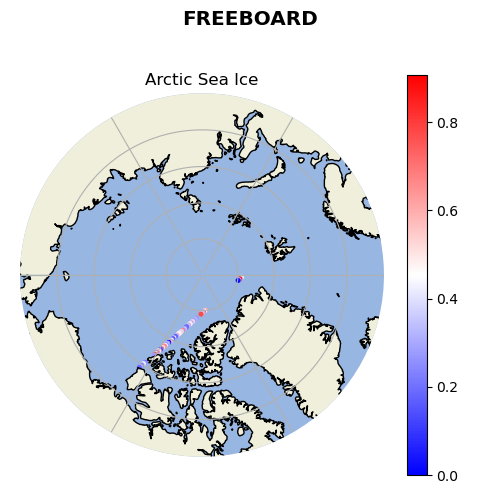
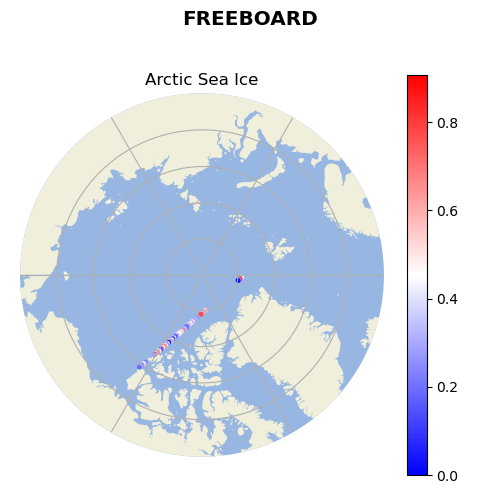
North pole track works for plotting_track_animation

diff --git a/practice_plotting/plotting_track_animation.py b/practice_plotting/plotting_track_animation.py
@@ -105,9 +105,51 @@ def plotNorthAndSouthTrackAnimation():
     print("Saved .gif file")
 
 
+def plotNorthPoleTrackAnimation():
+    
+    # Load the data to plot
+    output              = loadData(runDir, outputFileName)
+    latCell, lonCell    = getLatLon(output)
+    timeCell            = getTime(output, len(lonCell))
+
+    variableToPlot1Day  = reduceToOneDay(output, keyVariableToPlot=VARIABLETOPLOT)
+
+    # Downsample the data
+    factor = 100  # Downsampling factor
+    latCell, lonCell, timeCell, variableToPlot1Day = downsampleData(latCell, lonCell, timeCell, variableToPlot1Day, factor)
+
+    # Plot the north pole
+    fig, northMap = generateNorthPoleAxes()
+    scatterNorth = generateNorthPoleMap(fig, northMap, latCell, lonCell, variableToPlot1Day, mapImageFileName, 1,1,1,1,1,5.0)
+    
+    # Initialize the text box
+    textBox = northMap.text(0.05, 0.95, "", transform=northMap.transAxes, fontsize=14, verticalalignment='top', bbox=boxStyling)
+
+    def update(frame):
+        # Update the data stored on each artist for each frame
+        scatterNorth.set_offsets(np.c_[lonCell[:frame], latCell[:frame]])
+
+        # Update the text box with the current time
+        textBoxString = "Time: " + str(convertTime(timeCell[frame]))
+        textBox.set_text(textBoxString)
+
+        return scatterNorth, textBox
+
+    print("Generated .png file")
+
+    startTime = time.time()
+    ani = animation.FuncAnimation(fig=fig, func=update, frames=latCell.size, interval=1)
+    ani.save(filename=animationFileName, writer="pillow")
+    endTime = time.time()
+    print("It took this much time: ", endTime-startTime)
+
+    # =======================
+    print("Saved .gif file")
+
+
 def main():
-    plotNorthAndSouthTrackAnimation()
-    # plotNorthPoleTrackAnimation()
+    # plotNorthAndSouthTrackAnimation()
+    plotNorthPoleTrackAnimation()
 
 if __name__ == "__main__":
     main()
